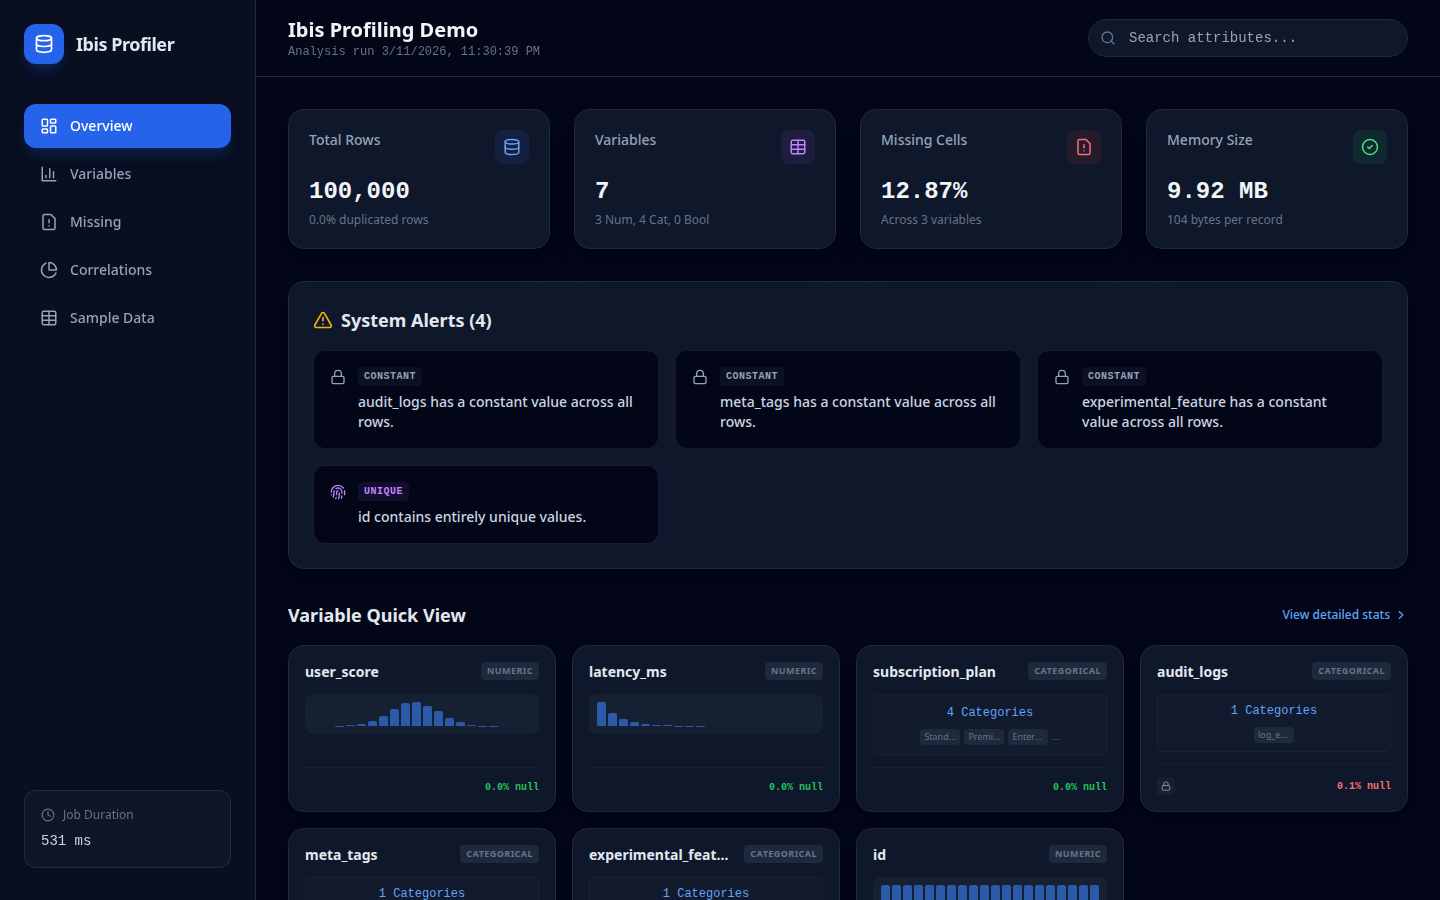
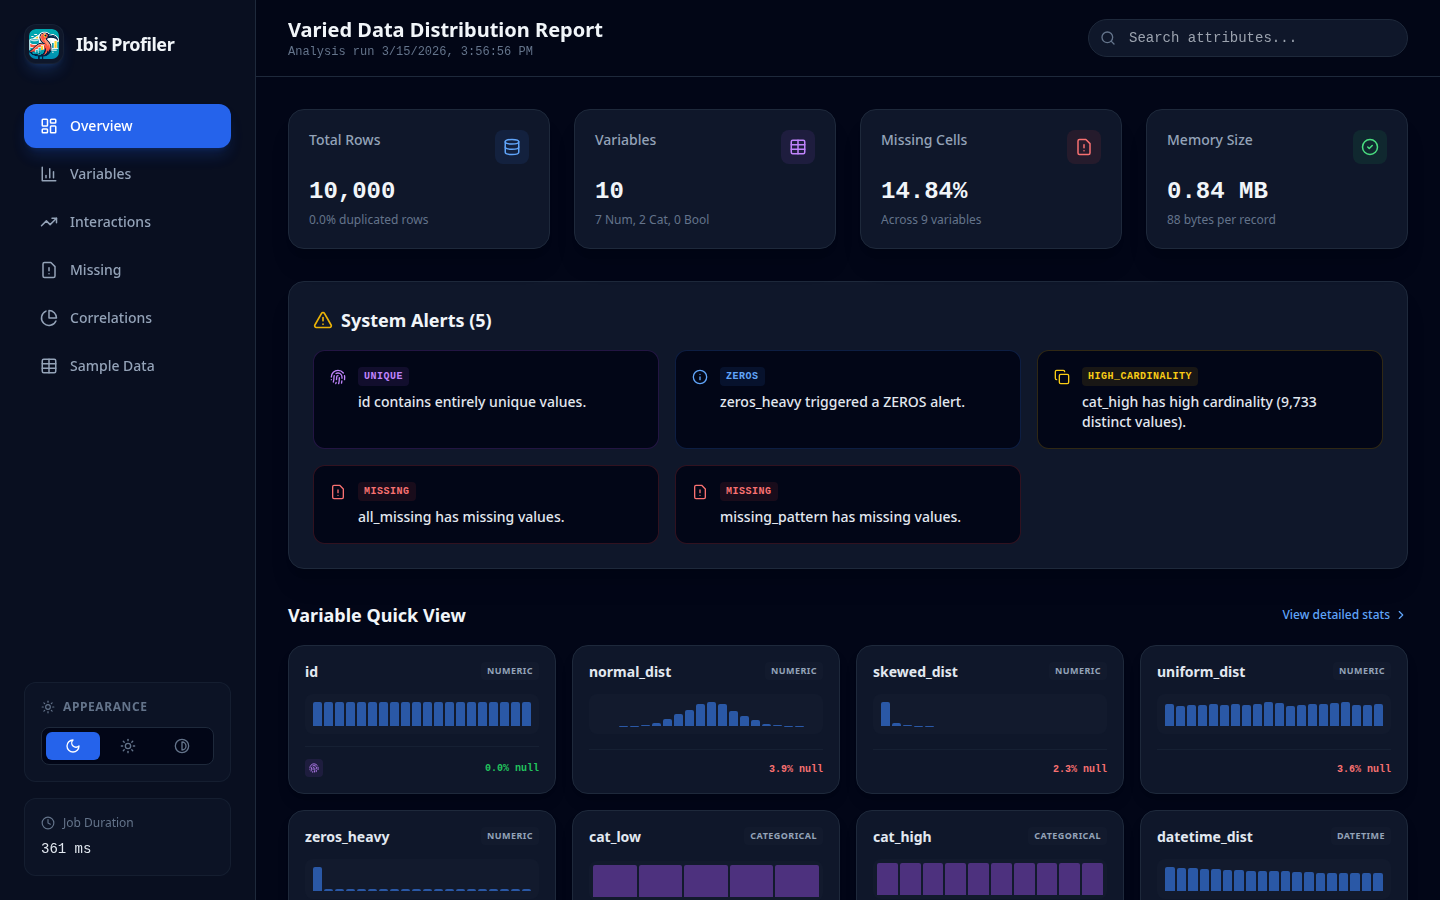
Fix histogram generation and handle None/NaN values in statistics

diff --git a/src/ibis_profiling/report/report.py b/src/ibis_profiling/report/report.py
@@ -141,7 +141,7 @@ class ProfileReport:
                     stats["range"] = stats["max"] - stats["min"]
 
                 # IQR
-                if "75%" in stats and "25%" in stats:
+                if stats.get("75%") is not None and stats.get("25%") is not None:
                     stats["iqr"] = stats["75%"] - stats["25%"]
 
                 # CV
@@ -153,15 +153,15 @@ class ProfileReport:
                     stats["cv"] = stats["std"] / stats["mean"]
 
                 # Zeros Percentage
-                if "n_zeros" in stats:
+                if stats.get("n_zeros") is not None:
                     stats["p_zeros"] = stats["n_zeros"] / n if n > 0 else 0
 
                 # Infinite Percentage
-                if "n_infinite" in stats:
+                if stats.get("n_infinite") is not None:
                     stats["p_infinite"] = stats["n_infinite"] / n if n > 0 else 0
 
                 # Negative Percentage
-                if "n_negative" in stats:
+                if stats.get("n_negative") is not None:
                     stats["p_negative"] = stats["n_negative"] / n if n > 0 else 0
             elif stats.get("type") == "Categorical":
                 # For categoricals, we don't want continuous numeric metrics
@@ -183,7 +183,7 @@ class ProfileReport:
                     stats.pop(k, None)
 
             # Unique Percentage
-            if "n_unique" in stats:
+            if stats.get("n_unique") is not None:
                 stats["p_unique"] = stats["n_unique"] / n if n > 0 else 0
 
             # Ensure other stats are serializable

diff --git a/src/ibis_profiling/__init__.py b/src/ibis_profiling/__init__.py
@@ -1,7 +1,7 @@
 import ibis
 from datetime import datetime
 from .inspector import DatasetInspector
-from .metrics import registry
+from .metrics import registry, safe_col
 from .planner import QueryPlanner
 from .engine import ExecutionEngine
 from .report import ProfileReport as InternalProfileReport
@@ -93,6 +93,7 @@ def profile(
         stats = report.variables[col_name]
         v_type = stats.get("type")
         col = table[col_name]
+        safe_c = safe_col(col)
 
         # For DateTime, we work with epoch seconds
         if v_type == "DateTime":
@@ -117,13 +118,16 @@ def profile(
 
             # Skewness (only if not minimal)
             if not minimal and mean is not None and std is not None and std > 0:
-                skew_expr = ((col - mean) / std).pow(3).mean().name(f"{col_name}__skewness")
+                skew_expr = ((safe_c - mean) / std).pow(3).mean().name(f"{col_name}__skewness")
                 second_pass_aggs.append(skew_expr)
 
             # MAD (only if not minimal)
             if not minimal and mean is not None:
-                mad_expr = (col - mean).abs().mean().name(f"{col_name}__mad")
+                mad_expr = (safe_c - mean).abs().mean().name(f"{col_name}__mad")
                 second_pass_aggs.append(mad_expr)
+
+            # Important: use safe_c for histogram calculation too
+            col = safe_c
 
         # Proper Histogram (Bucket Pass) - ALWAYS computed
         if v_min is not None and v_max is not None and v_max > v_min:

diff --git a/src/ibis_profiling/metrics.py b/src/ibis_profiling/metrics.py
@@ -51,10 +51,10 @@ registry.register(
     Metric("mean", MetricCategory.COLUMN, [dt.Numeric], lambda col: safe_col(col).mean())
 )
 registry.register(
-    Metric("min", MetricCategory.COLUMN, [dt.Numeric, dt.Temporal], lambda col: col.min())
+    Metric("min", MetricCategory.COLUMN, [dt.Numeric, dt.Temporal], lambda col: safe_col(col).min())
 )
 registry.register(
-    Metric("max", MetricCategory.COLUMN, [dt.Numeric, dt.Temporal], lambda col: col.max())
+    Metric("max", MetricCategory.COLUMN, [dt.Numeric, dt.Temporal], lambda col: safe_col(col).max())
 )
 registry.register(
     Metric("std", MetricCategory.COLUMN, [dt.Numeric], lambda col: safe_col(col).std(how="sample"))

diff --git a/src/ibis_profiling/report/model/alerts.py b/src/ibis_profiling/report/model/alerts.py
@@ -10,9 +10,9 @@ class AlertEngine:
         n = table_stats.get("n", 0)
 
         for col, stats in variables.items():
-            n_distinct = stats.get("n_distinct", 0)
-            p_missing = stats.get("p_missing", 0)
-            n_zeros = stats.get("n_zeros", 0)
+            n_distinct = stats.get("n_distinct") or 0
+            p_missing = stats.get("p_missing") or 0.0
+            n_zeros = stats.get("n_zeros") or 0
             v_type = stats.get("type")
 
             # 1. Constant (High Priority)

diff --git a/README.md b/README.md
@@ -4,11 +4,14 @@
 
 # Ibis Profiling
 
+[![PyPI version](https://badge.fury.io/py/ibis-profiling.svg)](https://badge.fury.io/py/ibis-profiling)
+[![License: MIT](https://img.shields.io/badge/License-MIT-yellow.svg)](https://opensource.org/licenses/MIT)
+
 An ultra-high-performance data profiling system built natively for **Ibis**.
 
 ## Core Principle: Profiling as Query Compilation
 
-Unlike traditional profiling tools (e.g., `ydata-profiling`) that iterate over columns or load data into local memory (Pandas), **Ibis Profiling** treats profiling as a **query planning problem**. 
+Unlike traditional profiling tools (e.g., `ydata-profiling`) that load data into local memory (Pandas), **Ibis Profiling** treats profiling as a **query planning problem**. 
 
 It compiles dozens of statistical metrics into a **minimal set of optimized SQL queries** that execute directly in your remote backend (DuckDB, BigQuery, Snowflake, ClickHouse, etc.). This ensures that computation happens where the data lives, enabling the profiling of multi-billion row datasets in seconds rather than hours.
 
@@ -84,16 +87,16 @@ Projections for `ydata-profiling` on larger datasets are derived from observed s
 
 ## 🛠 Installation
 
-Since **Ibis Profiling** is in active development and not yet on PyPI, you can install it directly from GitHub:
+Install **Ibis Profiling** directly from PyPI:
 
 ### Using [uv](https://github.com/astral-sh/uv) (Recommended)
 ```bash
-uv add git+https://github.com/beallio/ibis-profiling.git
+uv add ibis-profiling
 ```
 
 ### Using pip
 ```bash
-pip install git+https://github.com/beallio/ibis-profiling.git
+pip install ibis-profiling
 ```
 
 ---
@@ -155,107 +158,108 @@ The `ProfileReport` supports a `minimal` flag (default `False`) to toggle betwee
 | **Duplicates** | Skipped. | Dataset-wide duplicate row count. |
 | **Performance** | **Ultra-Fast.** Recommended for datasets > 50M rows. | **Detailed.** Recommended for deep data quality audits. |
 
-## 📦 Report Export & Minification
+## 📦 Report Export & Layouts
 
-By default, `ibis-profiling` minifies the generated HTML report to reduce file size (typically by 15-20%) without compromising functionality. Minification includes:
-- Stripping HTML, CSS, and JS comments.
-- Removing redundant whitespace and empty lines from the template.
-- Compact JSON embedding (removing internal whitespace in the data payload).
+By default, `ibis-profiling` minifies the generated HTML report to reduce file size (typically by 15-20%) without compromising functionality.
 
-To generate a human-readable (non-minified) report, set `minify=False` in `to_file` or `to_html`:
+### Custom Themes & Themes
+The `to_file` method supports a `theme` parameter to choose between different report layouts:
+
+```python
+# Modern React SPA (Default)
+report.to_file("report.html", theme="default")
+
+# Classic layout for ydata-profiling parity
+report.to_file("report.html", theme="ydata-like")
+```
+
+### Minification
+To generate a human-readable (non-minified) report, set `minify=False`:
 
 ```python
 # Save as formatted HTML
 report.to_file("report.html", minify=False)
-
-# Get the formatted HTML string
-html = report.to_html(minify=False)
 ```
 
-## Feature Gaps & Roadmap
+## 🎨 Interactive React SPA
 
-`ibis-profiling` is designed for scale, prioritizing metrics that can be pushed down to SQL engines. As a result, some "linguistic" or high-complexity features from `ydata-profiling` are currently missing or implemented as approximations:
+The default report is a fully interactive React Single Page Application (SPA) providing a modern user experience:
 
-1.  **Linguistic Analysis:** Unicode script detection and character-level distributions are missing (require complex UDFs).
-2.  **Advanced Correlations:** `phi_k`, `kendall`, and `cramers_v` are currently placeholders (higher computational complexity).
-3.  **Memory Footprint:** While Ibis uses backend-specific commands (like DuckDB's `PRAGMA storage_info`) where possible, it falls back to schema-based estimation for others.
+- **Instant Search:** Quickly filter variables by name or type.
+- **Theme Toggle:** Switch between **Dark**, **Light**, and **High Contrast** modes with persistent settings.
+- **Alert Filtering:** Interactive dashboard to filter data quality alerts by severity (Warning vs. Info).
+- **Responsive Charts:** High-fidelity SVG and Canvas-based visualizations (Histograms, Heatmaps, Scatter Plots).
 
 ---
 
-## 🏗 Architecture
+## 🏗 Architecture & Backend Support
 
-The system is decoupled into five core modules:
+The system is decoupled into five core modules designed for maximum backend compatibility:
 1. **Dataset Inspector:** Zero-execution schema analysis.
 2. **Metric Registry:** Declarative metric definitions as Ibis expressions.
 3. **Query Planner:** The "compiler" that batches compatible expressions into minimal execution plans.
 4. **Execution Engine:** Multi-pass dispatcher that handles simple vs. complex aggregations.
-5. **Report Builder:** Aggregates and formats raw backend results into high-fidelity JSON/HTML following the canonical YData schema.
+5. **Report Builder:** Aggregates and formats raw backend results into high-fidelity JSON/HTML.
+
+**Supported Backends:** 100% compatibility with all **Ibis** backends including DuckDB, Snowflake, BigQuery, ClickHouse, Postgres, Polars, and more.
 
 ---
 
 ## 📊 Missing Values Analysis
 
-Move beyond simple counts with advanced pattern detection:
-- **Matrix:** A vertical sparkline grid (SVG) visualizing the location of missing values across rows.
-- **Heatmap:** Pearson correlation of "nullity" between variables, revealing structural dependencies.
+Move beyond simple counts with advanced pattern detection and visualization:
+- **Missing Matrix:** A vertical sparkline grid (SVG) visualizing the exact location of missing values across rows, allowing you to spot temporal or structural gaps.
+- **Nullity Heatmap:** Pearson correlation of "nullity" between variables, revealing structural dependencies (e.g., when Column A is missing, Column B is also 90% likely to be missing).
+
+---
+
+## 🔍 Pairwise Interactions
+
+Explore dependencies between numeric variables with high-performance scatter plots:
+- **Automatic Selection:** Intelligently samples the dataset to maintain 60FPS interactivity even with millions of rows.
+- **Correlation-Driven:** Highlights pairs with high statistical significance to surface hidden patterns.
+- **Canvas-Optimized:** Uses HTML5 Canvas for smooth rendering of thousands of data points directly in the browser.
 
 ---
 
 ## 📏 Metrics & Calculation Reference
 
-This section provides a detailed breakdown of how metrics are calculated and how the alert engine identifies potential data quality issues.
-
 ### 1. Variable Calculations
 
-The profiler uses a multi-pass execution engine to compute statistics efficiently across massive datasets while remaining compatible with SQL-based backends (like DuckDB).
+The profiler uses a multi-pass execution engine to compute statistics efficiently across massive datasets while remaining compatible with SQL-based backends.
 
 #### Core Statistics (Pass 1)
-These are computed in a single global aggregation pass using Ibis primitives.
-
 | Metric | Calculation | Type |
 | :--- | :--- | :--- |
 | `n` | Total number of observations (rows) in the table. | All |
 | `n_missing` | Count of `NULL` or `NaN` values. | All |
 | `p_missing` | `n_missing / n` | All |
-| `n_distinct` | Count of unique values (excluding `NULL`). Used for auto-categorical detection. | All |
-| `p_distinct` | `n_distinct / n` | All |
-| `count` | `n - n_missing` (Total non-missing values) | All |
+| `n_distinct` | Count of unique values (excluding `NULL`). | All |
 | `mean` | `sum(x) / count` (NaNs treated as NULL) | Numeric |
 | `std` | Sample standard deviation (Bessel's correction). | Numeric |
-| `variance` | `std^2` | Numeric |
 | `min` / `max` | Minimum and maximum values. | Numeric, DateTime |
-| `n_zeros` | Count of values exactly equal to `0`. | Numeric |
-| `n_negative` | Count of values `< 0`. | Numeric |
-| `n_infinite` | Count of `+/- inf` values (Float only). | Numeric |
 | `histogram` | Binned distribution (Numeric/DateTime) or Top Values (Categorical). | All |
 
 #### Advanced Statistics (Pass 2)
 To avoid "Nested Aggregation" errors in SQL backends, these are computed using values from Pass 1 as constants.
-
 | Metric | Calculation | Logic |
 | :--- | :--- | :--- |
 | `skewness` | `mean( ((x - μ) / σ)^3 )` | Standardized 3rd moment. |
 | `mad` | `mean( abs(x - μ) )` | Mean Absolute Deviation. |
 | `n_duplicates` | `n - count(distinct_rows)` | Dataset-wide duplicate row count. |
 
-#### Quantiles
-Calculated via `col.quantile(p)`.
-- `5%`, `25%` (Q1), `50%` (Median), `75%` (Q3), `95%`.
-
----
-
 ### 2. Alert Engine Logic
-
-The built-in alert engine scans the calculated metrics and triggers warnings based on industry-standard thresholds (aligned with `ydata-profiling`).
 
 | Alert Type | Logic / Threshold | Severity |
 | :--- | :--- | :--- |
 | **CONSTANT** | `n_distinct == 1` | warning |
 | **UNIQUE** | `n_distinct == n` | warning |
-| **HIGH_CARDINALITY** | `p_distinct > 0.5` (and not `UNIQUE`, Categorical only) | warning |
+| **HIGH_CARDINALITY** | `p_distinct > 0.5` (Categorical only) | warning |
 | **MISSING** | `p_missing > 0.05` | info |
 | **ZEROS** | `p_zeros > 0.10` | info |
 | **SKEWED** | `abs(skewness) > 10` | info |
-**Suppression Rules:**
-1. If a column is **CONSTANT**, all other alerts for that column are suppressed.
-2. If a column is **UNIQUE**, the **HIGH_CARDINALITY** alert is suppressed.
+
+---
+
+## 📄 License
+Ibis Profiling is licensed under the **MIT License**. See `LICENSE` for details.
